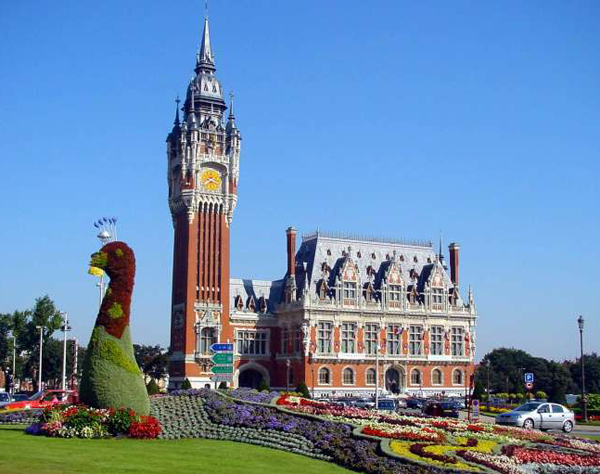
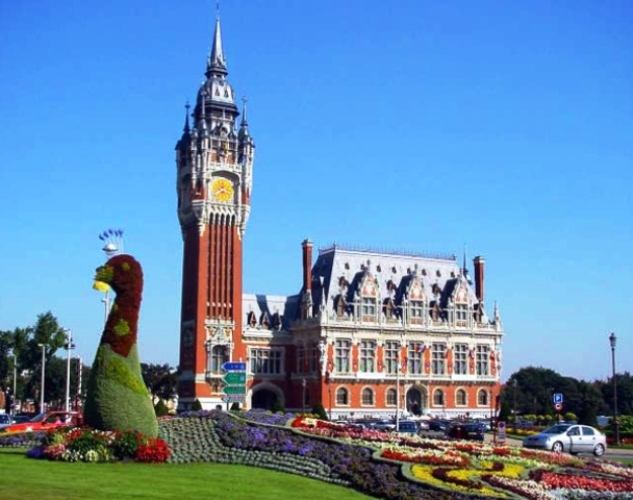
beforecache

diff --git a/index.html b/index.html
@@ -8,9 +8,9 @@
 	<title>M4105C : Un super Kappa</title>
 </head>
 <body>
-	<header>Header</header>
+	<header></header>
 	<section id="paragraphe1">
-		<p>dddLorem ipsum dolor sit amet, consectetur adipisicing elit, sed do eiusmod
+		<p>Lorem ipsum dolor sit amet, consectetur adipisicing elit, sed do eiusmod
 			tempor incididunt ut labore et dolore magna aliqua. Ut enim ad minim veniam,
 			quis nostrud exercitation ullamco laboris nisi ut aliquip ex ea commodo
 			consequat. Duis aute irure dolor in reprehenderit in voluptate velit esse
@@ -35,27 +35,44 @@
 		<section>
 			<section id="form">		
 				<form action='' method='POST'>
-					<label for="nom_exp">Nom :</label>			
-					<input type='text' name='nom' />
+					<div id="champs">
+						<label for="nom_exp">Nom :</label>			
+						<input type='text' name='nom' />
+					</div>
 					
+					<div id="champs">
 					<label for="dte_naissance">Date naissance</label>
 					<input type='date' name='dte_naiss' />
+					</div>
 					
+					<div id="champs">
 					<label for="age">Age</label>
 					<input type='number' name='age' />
-					
+					</div>
+
+					<div id="champs">
 					<label for="fcb">Facebook :</label>			
 					<input type='url' name='fcb' />
+					</div>
 
+					<div id="champs">
 					<label for="nom_exp">Email :</label>			
 					<input type='email' name='mail' />
+					</div>
 					
+					<div id="champs">
 					<label for="nom_exp">Tel :</label>			
 					<input type='tel' name='tel' />
+					</div>
 
 					<input type='submit' value='Envoyer'>
 				</form>
 		</section>
-	<footer>Footer</footer>
+
+		<section id="image">
+			<img id="mairie_calais" src="images/mairie-de-calais.jpg" alt="mairie-calais" >
+		</section>
+
+	<footer></footer>
 </body>
 </html>

diff --git a/style.css b/style.css
@@ -1,18 +1,36 @@
-*{
+*{
 	margin :0;
 	padding: 0;
 }
+body{
+	max-width: 900px;
+	margin:auto;
+}
 #paragraphe1{
 	background-color: blue;
+	margin-bottom: 2em;
 }
 
 #paragraphe2{
 	background-color: white;
+	margin-bottom: 2em;
 }
 
 #paragraphe3{
 	background-color: red;
+	margin-bottom: 2em;
+}
+#form{
+	margin: 2em 0;
+}
+#champs{
+	display: block;
+	width:auto;
+	margin: 5px;
 }
 footer{
 	margin-top: 20px;
+}
+img{
+	max-width: 100%;
 }
